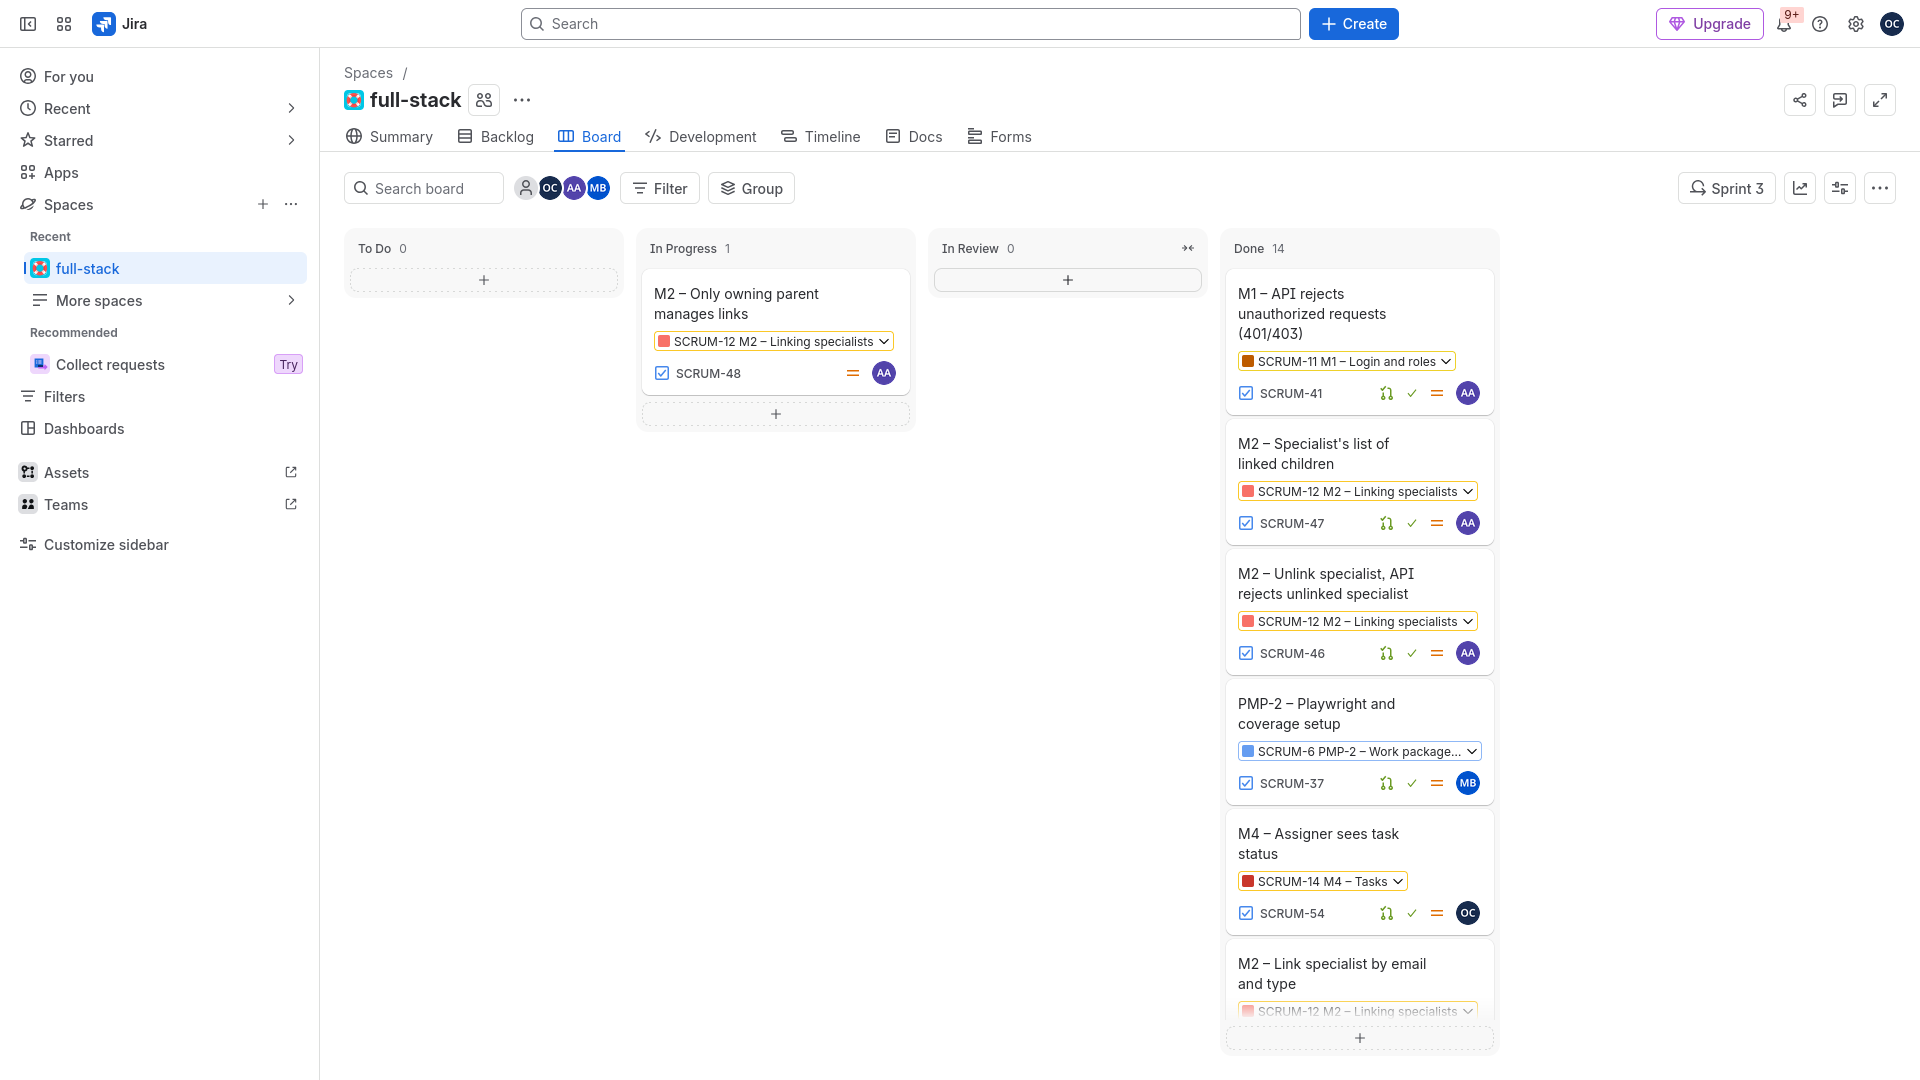
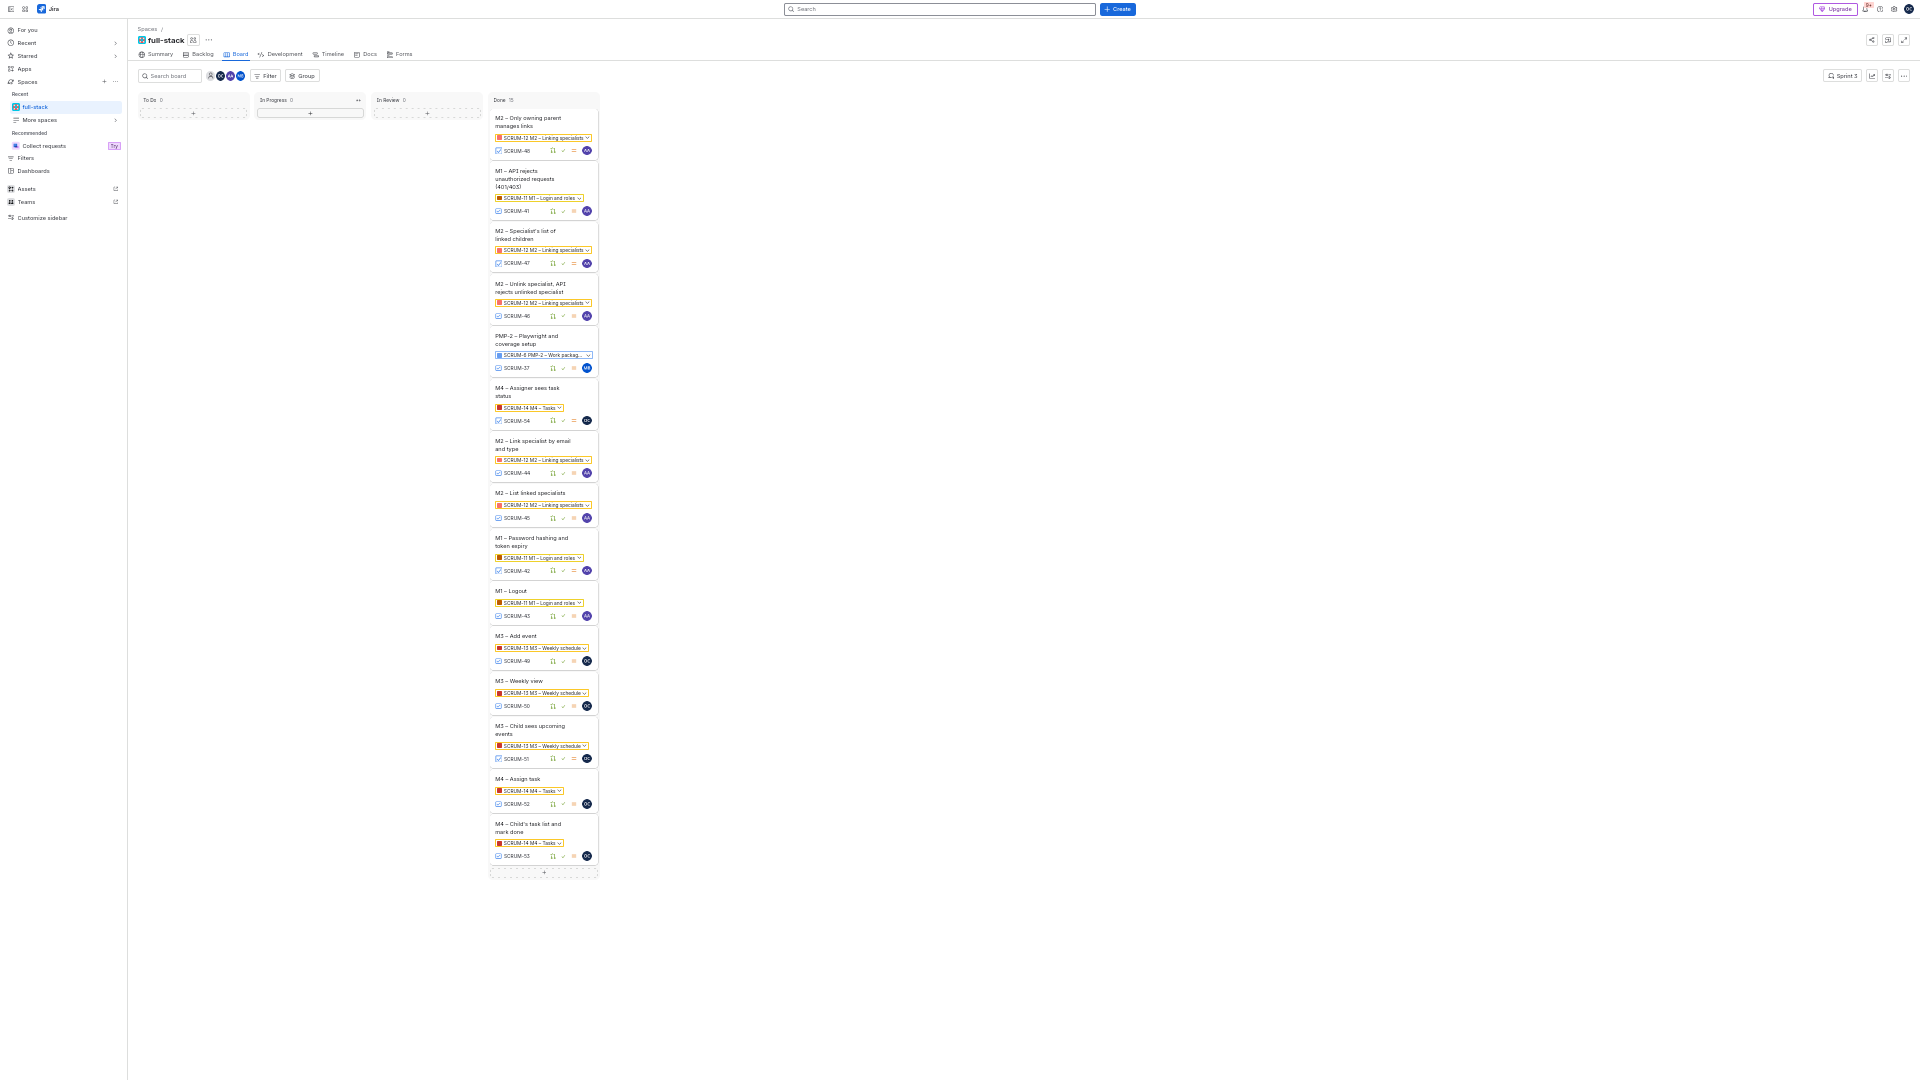
SCRUM-7 Update PMP-3: M2 done, v0.1 completed, new board screenshot

diff --git a/docs/PMP.md b/docs/PMP.md
@@ -75,14 +75,14 @@ Week 13 is used for the presentation and live demo.
 | Epic | Planned for this point | Status (Done / In progress / Not started) |
 |---|---|---|
 | M1 – Login and roles | Email and password login, role-based screens, API rejects unauthorized requests | Done. Login, JWT with expiry, `requireRole` and `requireChildAccess`, role-based pages and route guard are merged and tested. |
-| M2 – Linking specialists | Parent links and unlinks a specialist by email; unlinked specialist rejected in the API | In progress. Link, unlink, list and the linked-children list are merged; the unlinked specialist is rejected on every child endpoint. SCRUM-48 (only the owning parent manages links) is still open. |
+| M2 – Linking specialists | Parent links and unlinks a specialist by email; unlinked specialist rejected in the API | Done. Link, unlink, list and the linked-children list are merged; the unlinked specialist is rejected on every child endpoint, and only the owning parent manages the links (SCRUM-48, covered by tests). |
 | M3 – Weekly schedule | Parent and linked specialists add events; weekly view | Done. Add event, weekly view and upcoming events for the child are merged, with the screens (SCRUM-54). |
 | M4 – Tasks | Assign tasks, child marks done, assigner sees status | Done. Assign task, child marks done, assigner sees the status, with the screens (SCRUM-54). |
 
 **Changes to the plan (if any):**
 
-- v0.1 is late. It was planned for week 8 and still waits for SCRUM-48 (M2) and this review. The first end-to-end test is in place: Playwright runs in CI (SCRUM-37) with a smoke test that opens the login page. The end-to-end tests for the three critical flows are planned for v0.2.
-- M8 started earlier than planned. The AI module (prompt builders, mock and Gemini providers, error handling) and the summary endpoint were built while M2 was still open, because they did not depend on M5 to M7. M8 moves from "Sprint 4, 5" to "Sprint 3, 4". The summary uses tasks only for now; entries are added after M5 is merged.
+- v0.1 was late. It was planned for week 8 and was completed on 2026-11-24, when SCRUM-48 (M2) was merged. The first end-to-end test is in place: Playwright runs in CI (SCRUM-37) with a smoke test that opens the login page. The end-to-end tests for the three critical flows are planned for v0.2.
+- M8 started earlier than planned. The AI module (prompt builders, mock and Gemini providers, error handling), the summary endpoint and the summary card with label, sources and feedback were built while M2 was still open, because they did not depend on M5 to M7. M8 moves from "Sprint 4, 5" to "Sprint 3, 4". The summary uses tasks only for now; entries are added after M5 is merged.
 - The real Gemini call has not been tested with a key yet. Tests and CI use the mock provider.
 - Sprint 4 (M5 to M8, PMP-4, v0.2) is planned from 2026-11-23 to 2026-12-06.
 
